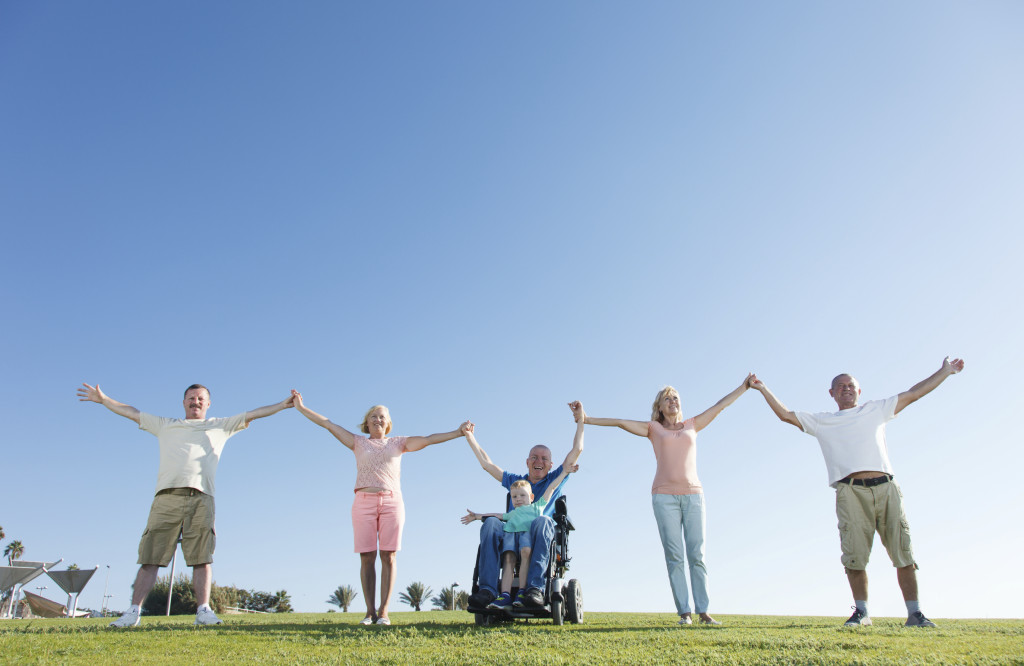
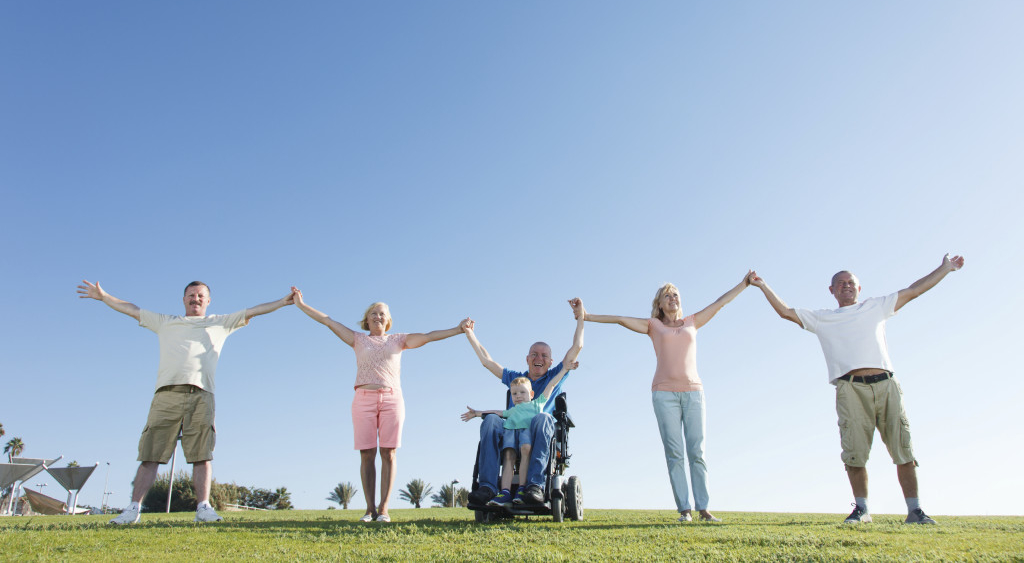
Fixed up stock images

Changed region(s): [[0.0, 0.4529, 1.0, 0.9964]]

diff --git a/templates/index.html b/templates/index.html
@@ -17,44 +17,44 @@
         <h3>{{ success_message }}</h3>
     {% endif %}
 
-    <div id="carouselExampleControls" class="carousel slide" data-ride="carousel" style="max-width:700px;margin:30px auto;">
-        <div class="carousel-inner">
+    <div style="">
+        <div id="carouselExampleControls" class="carousel slide" data-ride="carousel" style="margin:30px auto;padding-bottom: 53%; width:100%; overflow:hidden;height:0;">
+            <div class="carousel-inner">
             <div class="carousel-item active">
                 <img class="d-block w-100" src="static/stock-1.jpg" alt="First slide">
             </div>
-        <div class="carousel-item">
-            <img class="d-block w-100" src="static/stock-2.jpg" alt="Second slide">
+
+            <div class="carousel-item">
+                <img class="d-block w-100" src="static/stock-3.jpg" alt="Second slide">
+            </div>
+            <div class="carousel-item">
+                <img class="d-block w-100" src="static/stock-4.jpg" alt="Second slide">
+            </div>
+            <div class="carousel-item">
+                <img class="d-block w-100" src="static/stock-2.jpg" alt="Second slide">
+            </div>
+            <div class="carousel-item">
+                <img class="d-block w-100" src="static/stock-6.jpg" alt="Second slide">
+            </div>
+            <div class="carousel-item">
+                <img class="d-block w-100" src="static/stock-7.jpg" alt="Second slide">
+            </div>
+            <div class="carousel-item">
+                <img class="d-block w-100" src="static/stock-8.jpg" alt="Second slide">
+            </div>
+            <div class="carousel-item">
+                <img class="d-block w-100" src="static/stock-9.jpg" alt="Second slide">
+            </div>
+            </div>
+                <a class="carousel-control-prev" href="#carouselExampleControls" role="button" data-slide="prev">
+                <span class="carousel-control-prev-icon" aria-hidden="true"></span>
+                <span class="sr-only">Previous</span>
+                </a>
+                <a class="carousel-control-next" href="#carouselExampleControls" role="button" data-slide="next">
+                <span class="carousel-control-next-icon" aria-hidden="true"></span>
+                <span class="sr-only">Next</span>
+                </a>
         </div>
-        <div class="carousel-item">
-            <img class="d-block w-100" src="static/stock-3.jpg" alt="Second slide">
-        </div>
-        <div class="carousel-item">
-            <img class="d-block w-100" src="static/stock-4.jpg" alt="Second slide">
-        </div>
-        <div class="carousel-item">
-            <img class="d-block w-100" src="static/stock-5.jpg" alt="Second slide">
-        </div>
-        <div class="carousel-item">
-            <img class="d-block w-100" src="static/stock-6.jpg" alt="Second slide">
-        </div>
-        <div class="carousel-item">
-            <img class="d-block w-100" src="static/stock-7.jpg" alt="Second slide">
-        </div>
-        <div class="carousel-item">
-            <img class="d-block w-100" src="static/stock-8.jpg" alt="Second slide">
-        </div>
-        <div class="carousel-item">
-            <img class="d-block w-100" src="static/stock-9.jpg" alt="Second slide">
-        </div>
-        </div>
-            <a class="carousel-control-prev" href="#carouselExampleControls" role="button" data-slide="prev">
-            <span class="carousel-control-prev-icon" aria-hidden="true"></span>
-            <span class="sr-only">Previous</span>
-            </a>
-            <a class="carousel-control-next" href="#carouselExampleControls" role="button" data-slide="next">
-            <span class="carousel-control-next-icon" aria-hidden="true"></span>
-            <span class="sr-only">Next</span>
-            </a>
     </div>
 
 {% endblock %}

diff --git a/templates/layout.html b/templates/layout.html
@@ -52,7 +52,7 @@
         </nav>
 
         <div class="main-outer">
-            <main class="container p-5">
+            <main class="container p-5" style="max-width: 1000px;">
                 {% block main %}{% endblock %}
             </main>
         </div>
